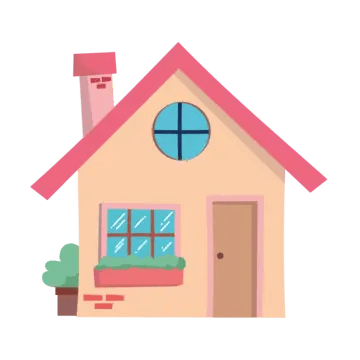
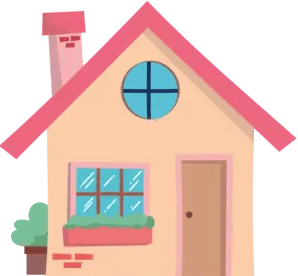
added building and house images

diff --git a/array-object/sketch.js b/array-object/sketch.js
@@ -12,6 +12,11 @@ let question;
 let blueHouse;
 let pinkHouse;
 let orangeHouse;
+let houseImage;
+let buildingImage;
+let building1;
+let building2;
+let building3;
 let showDayMessage = false;
 let showNightMessage = false;
 let showInstructionsMessage = false;
@@ -32,6 +37,9 @@ function setup() {
   blueHouse = loadImage("blue-house.png");
   pinkHouse = loadImage("pink-house.png");
   orangeHouse = loadImage("orange-house.png");
+  building1 = loadImage("building-1.png");
+  building2 = loadImage("building-2.png");
+  building3 = loadImage("building-3.png");
 }
 
 //calling all draw functions
@@ -44,6 +52,7 @@ function draw() {
   instructions();
   messages();
   drawBuildings();
+  drawHouses();
 } 
 
 //places question mark image on screen
@@ -150,18 +159,21 @@ function mouseClicked(){
     let newH;
 
     if (keyIsDown(49)){
-      newW = 60;
-      newH = 150;
+      newW = building1.width*2;
+      newH = building1.height*2;
+      buildingImage = building1;
     }
 
     else if (keyIsDown(50)){
-      newW = 50;
-      newH = 200;
+      newW = building2.width*2;
+      newH = building2.height*2;
+      buildingImage = building2;
     }
 
     else if (keyIsDown(51)){
-      newW = 80;
-      newH = 120;
+      newW = building3.width*2;
+      newH = building3.height*2;
+      buildingImage = building3;
     }
     
     else {
@@ -172,7 +184,7 @@ function mouseClicked(){
       x: mouseX,
       w: newW,
       h: newH,
-      colour: rgb,
+      image: buildingImage,
     };
 
     allBuildings.push(building);
@@ -183,20 +195,20 @@ function mouseClicked(){
     let newH;
 
     if (keyIsDown(52)){
-      newW = blueHouse.width();
-      newH = blueHouse.height();
+      newW = blueHouse.width/4;
+      newH = blueHouse.height/4;
       houseImage = blueHouse;
     }
 
     else if (keyIsDown(53)){
-      newW = pinkHouse.width();
-      newH = pinkHouse.height();
+      newW = pinkHouse.width/4;
+      newH = pinkHouse.height/4;
       houseImage = pinkHouse;
     }
 
     else if (keyIsDown(54)){
-      newW = orangeHouse.width();
-      newH = orangeHouse.height();
+      newW = orangeHouse.width/4;
+      newH = orangeHouse.height/4;
       houseImage = orangeHouse;
     }
     
@@ -222,8 +234,7 @@ function drawBuildings(){
 
     let y = windowHeight - (windowHeight/5 + b.h);
   
-    fill(b.colour);
-    rect(b.x,y,b.w,b.h);
+    image(b.image, b.x, y, b.w, b.h);
   }
 }
 
@@ -299,15 +310,15 @@ function keyPressed(){
 
 
 //change new building's shade of grey using mouse wheel: up = lighter, down = darker
-function mouseWheel(event){
+// function mouseWheel(event){
 
-  if (event.delta < 0){
-    rgb  += 10;
-  }
+//   if (event.delta < 0){
+//     rgb  += 10;
+//   }
 
-  else if (event.delta > 0) {
-    rgb -= 10;
-  }
+//   else if (event.delta > 0) {
+//     rgb -= 10;
+//   }
 
-  rgb = constrain(rgb, 0, 255);
-}
+//   rgb = constrain(rgb, 0, 255);
+// }
